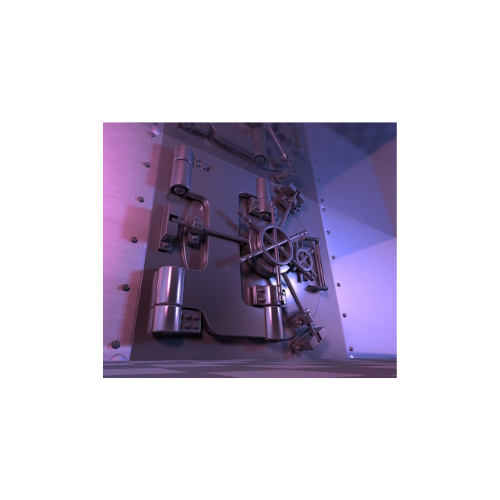
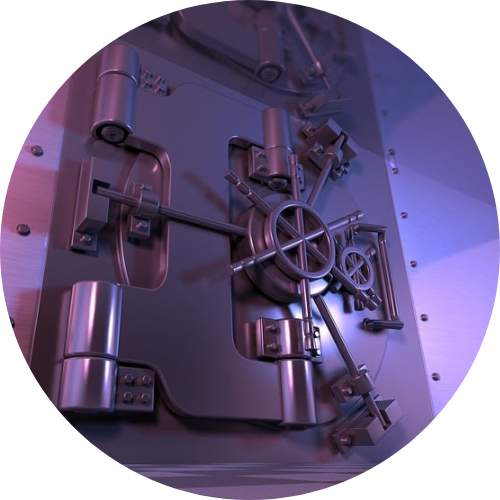
Update section 3
Create flexbox for more control
Add proper images
Add steps to using Vulcan Staking

diff --git a/index.html b/index.html
@@ -30,44 +30,52 @@
     <h2 class="sec-2-title">Supported Networks</h2>
     <div class="sec-2">
         <div class="sec-2-info">
-          <img class="sec-2-img" src="./images/bitcoin-logo.png" alt="placeholder">
+          <img class="sec-2-img" src="./images/bitcoin-logo.png" alt="bitcoin logo">
           <div class="sec-2-text">Bitcoin</div>
           <p class="coin-info">Stake your BTC, earn daily staking rewards and use vBTC across the DeFi ecosystem and L2.</p>
           <p class="coin-info-2">3.5% APR</p>
           <button class="sec-2-button">Learn more</button>
         </div>
         <div class="sec-2-info">
-          <img class="sec-2-img" src="./images/eth-logo.png" alt="placeholder">
+          <img class="sec-2-img" src="./images/eth-logo.png" alt="ethereum logo">
           <div class="sec-2-text">Ethereum</div>
           <p class="coin-info">Stake your ETH, earn daily staking rewards and use vETH across the DeFi ecosystem and L2.</p>
           <p class="coin-info-2">4.6% APR</p>
           <button class="sec-2-button">Learn more</button>
         </div>
         <div class="sec-2-info">
-          <img class="sec-2-img" src="./images/ripple-logo.png" alt="placeholder">
+          <img class="sec-2-img" src="./images/ripple-logo.png" alt="xrp or ripple logo">
           <div class="sec-2-text">Ripple</div>
           <p class="coin-info">Stake your XRP, earn daily staking rewards and use vXRP across the DeFi ecosystem and L2.</p>
           <p class="coin-info-2">6.5% APR</p>
           <button class="sec-2-button">Learn more</button>
         </div>
         <div class="sec-2-info">
-          <img class="sec-2-img" src="./images/cardano-logo.png" alt="placeholder">
+          <img class="sec-2-img" src="./images/cardano-logo.png" alt="cardano logo">
           <div class="sec-2-text">Cardano</div>
           <p class="coin-info">Stake your ADA, earn daily staking rewards and use vADA across the DeFi ecosystem and L2.</p>
           <p class="coin-info-2">6.9% APR</p>
           <button class="sec-2-button">Learn more</button>
         </div>
-      </div>
-     <div class="sec-3">
-        <p><em>This is an inspiring quote or a testimonial from a customer. Maybe it's just filling up space
-            or maybe people will actually read it. Who knows?</em></p>
-        <p><bold>- Ragnar</bold></p>
-        <img class="sec-3-img" src="./images/stake.png" alt="secure vault">
-
-        <img class="sec-3-img" src="./images/stake.png" alt="secure vault">
-        <img class="sec-3-img" src="./images/stake.png" alt="secure vault">
+    </div>
+    <h2 class="sec-3-title">How it Works</h2>
+    <div class="sec-3">
+        <div class="sec-3-info">
+            <img class="sec-3-img" src="./images/stake.png" alt="vault used to secure your staked crypto">
+            <div class="sec-3-text">Step 1</div>
+            <p class="step-1">Stake any amount of crypto and receive daily rewards.</p>
+        </div>
+        <div class="sec-3-info">
+            <img class="sec-3-img" src="./images/liquid.png" alt="liquid crypto">
+            <div class="sec-3-text">Step 2</div>
+            <p class="step-2">Once you have staked your tokens, you will receive the equivalent amount of vTokens (vBTC, vETH, etc).</p>
+        </div>
+        <div class="sec-3-info">
+            <img class="sec-3-img" src="./images/defi.png" alt="decentralized network of nodes">
+            <div class="sec-3-text">Step 3</div>
+            <p class="step-3">Use your vTokens to compound your earnings with our DeFi partners.</p>
+        </div>
      </div>
-    
     <div class="section-four">
         <h3>Call to action! It's time!</h3>
         <p>Sign up and start staking before our pool reaches capacity</p>

diff --git a/style.css b/style.css
@@ -120,10 +120,20 @@ ul {
     margin: 5px;
 }
 
+.sec-3 {
+    display: flex;
+}
+
+.sec-3-title {
+    display: flex;
+    justify-content: center;
+    font-weight: 36px;
+    font-size: 36px;
+}
+
 .sec-3-img {
     display: flex;
-    flex-direction: column;
-    flex-wrap: nowrap;
+    height: 200px;
 }
 
 .sec-4-button {
